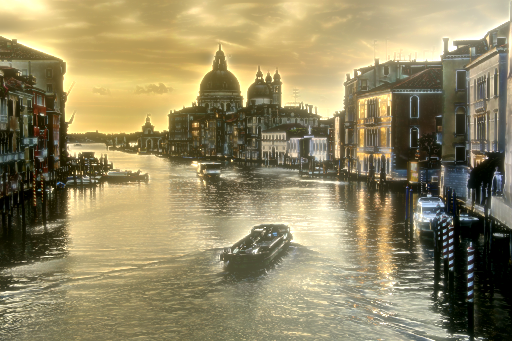
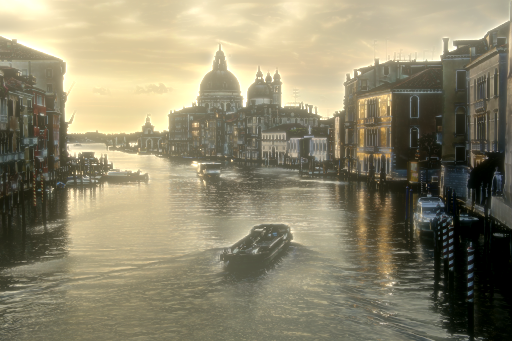
improved haloing issue

diff --git a/weight_map.py b/weight_map.py
@@ -18,19 +18,24 @@ def calculate_quality_measures(image):
     
     # Calculate contrast using the Laplacian operator
     laplacian = cv2.Laplacian(gray, cv2.CV_32F)
-    contrast = np.abs(laplacian)
+    contrast = np.abs(laplacian) + 1.0
     
     # Calculate saturation as the standard deviation of color channels
     mean = np.mean(image, axis=2)
-    saturation = np.sqrt(((image - mean[:, :, np.newaxis])**2).mean(axis=2))
+    saturation = np.sqrt(((image - mean[:, :, np.newaxis])**2).mean(axis=2)) + 1.0
     
     # Calculate well-exposedness using a Gaussian curve centered at 0.5
-    sigma = 0.2
+    sigma = 0.4
     well_exposedness = np.ones(image.shape[:2], dtype=np.float32)  # Initialize to ones
     for channel in range(3):  # Assuming BGR format
         channel_data = image[:, :, channel]
         well_exposedness *= np.exp(-0.5 * ((channel_data - 0.5) ** 2) / sigma**2)
     
+    # Apply Gaussian blur to reduce halo effects
+    contrast = cv2.GaussianBlur(contrast, (5, 5), 0)
+    saturation = cv2.GaussianBlur(saturation, (5, 5), 0)
+    well_exposedness = cv2.GaussianBlur(well_exposedness, (5, 5), 0)
+
     return contrast, saturation, well_exposedness
 
 def display_heatmaps(image, contrast, saturation, well_exposedness):
@@ -87,10 +92,9 @@ def calculate_weight_map(image, wc=1.0, ws=1.0, we=1.0):
     
     # Compute the weight map using the given exponents
     weight_map = (contrast ** wc) * (saturation ** ws) * (well_exposedness ** we)
-    
-    # It's common to normalize the weight map to prevent numerical instability
+
+    # Normalize the weight map
     weight_map += 1e-12  # Prevent division by zero
-    
     weight_sum = np.sum(weight_map, axis=(0, 1), keepdims=True) + 1e-12
     weight_map /= weight_sum
 

diff --git a/exposure_fusion.py b/exposure_fusion.py
@@ -63,6 +63,6 @@ def exposure_fusion(directory, scene_name):
     plt.show()
 
 if __name__ == '__main__':
-    scene_name = 'Cave' 
+    scene_name = 'Venice' 
     directory = f'Images/{scene_name}'  
     exposure_fusion(directory, scene_name)
